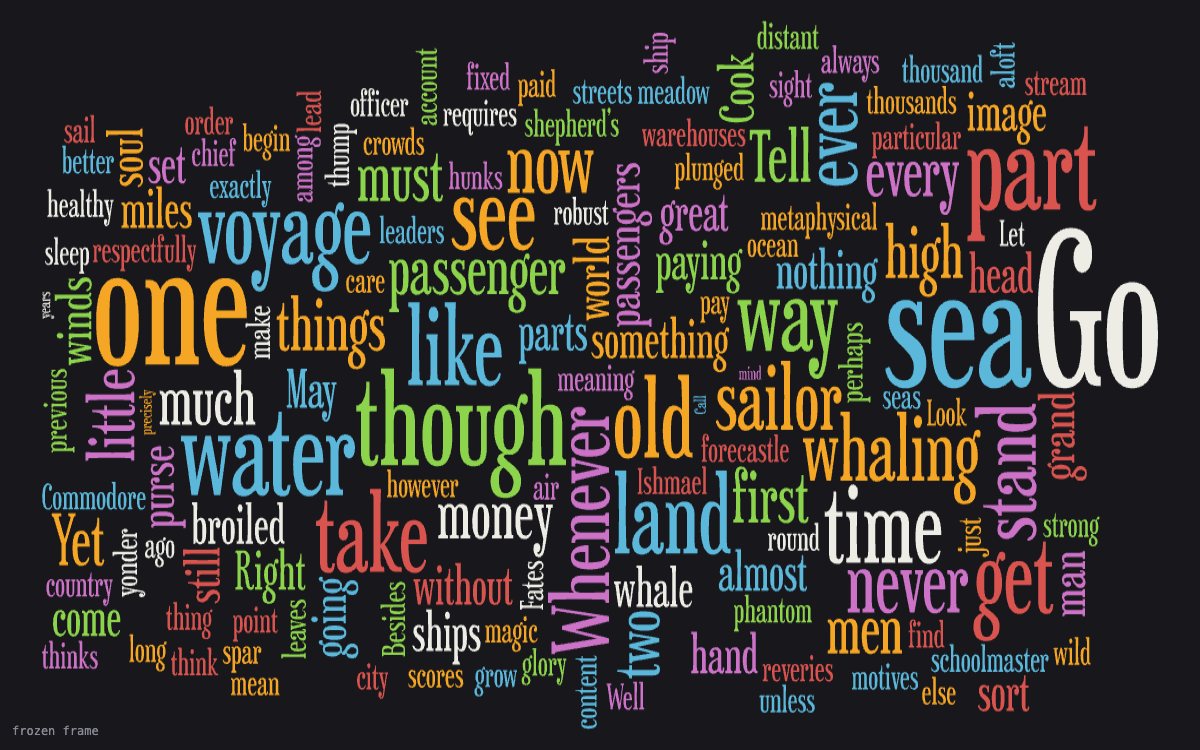
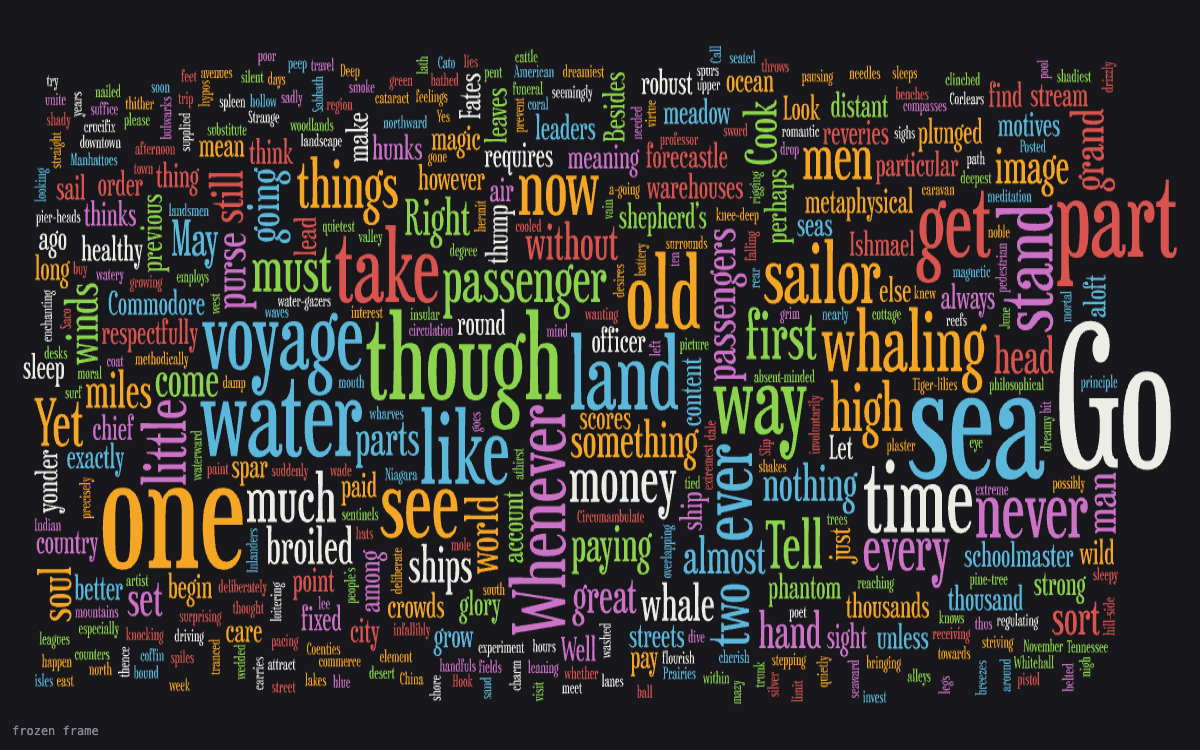
Densify: default word cap 150 -> 400

diff --git a/src/demo_scene.h b/src/demo_scene.h
@@ -21,7 +21,7 @@ Scene buildCloudScene(const std::string& fontPath);
 // out. Deterministic for fixed inputs.
 Scene buildCloudFromText(const std::string& fontPath,
                          const std::string& stopWordsDir,
-                         std::string_view text, size_t maxWords = 150,
+                         std::string_view text, size_t maxWords = 400,
                          LayoutDebug* debug = nullptr);
 
 }  // namespace words